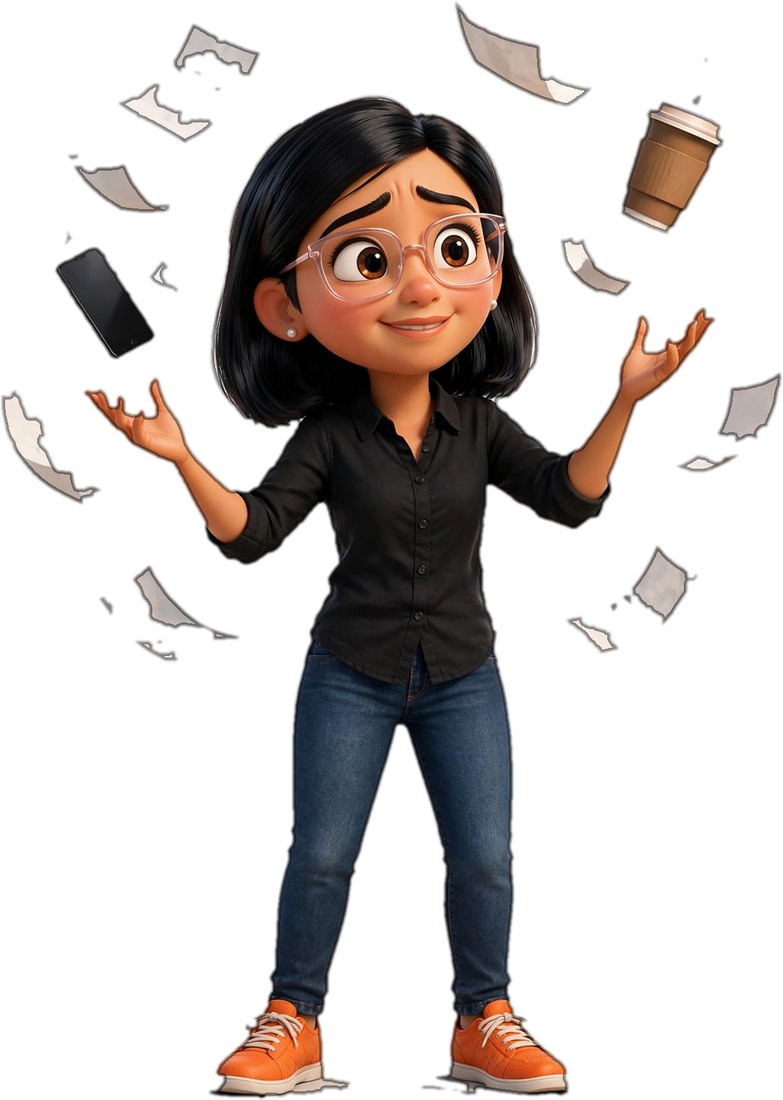
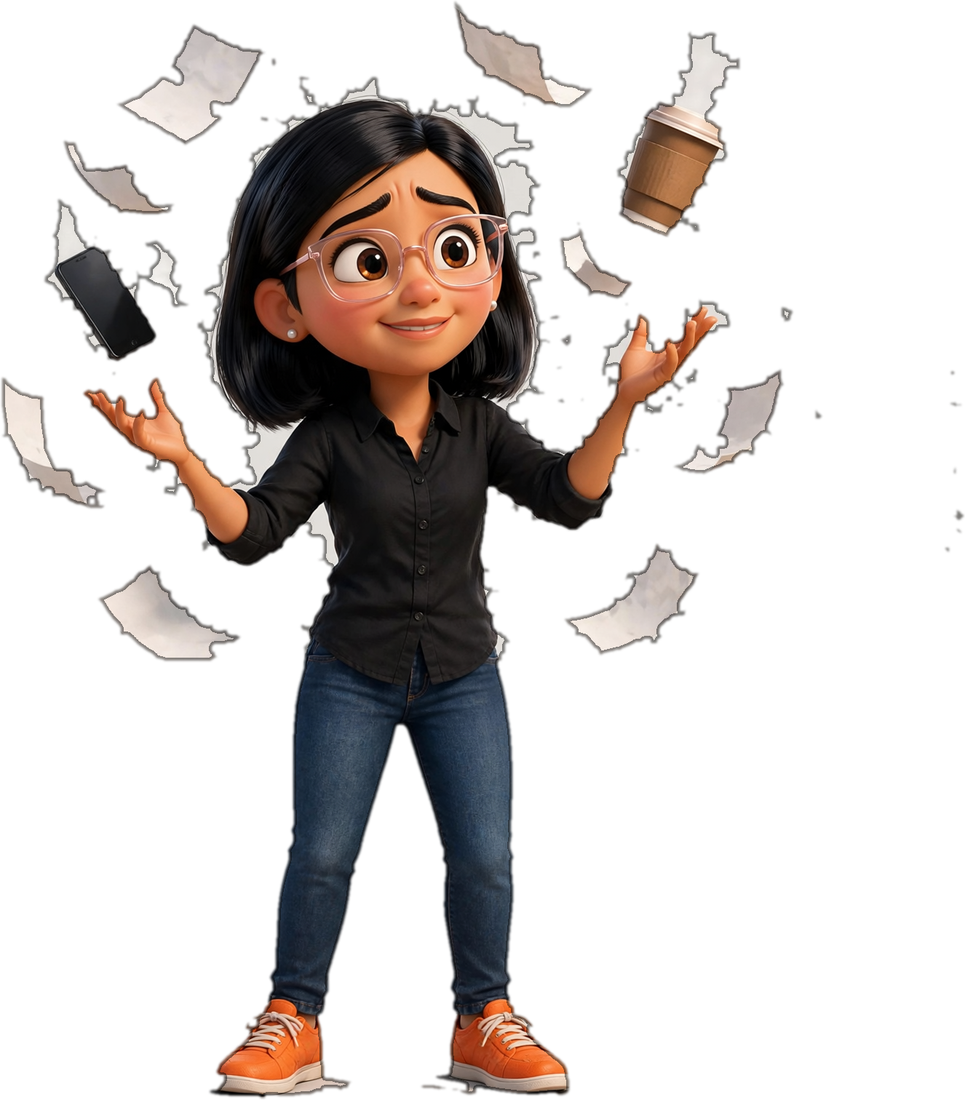
Refresh impact from capture, dismiss tour, bigger app frame, re-cut juggling pose

diff --git a/video/src/components/AppParts.tsx b/video/src/components/AppParts.tsx
@@ -25,8 +25,8 @@ export const zoomFor = (f: Focus) => Math.min(2.8, (1920 * 0.94) / f.w, (1080 * 
 /** The recorded screen, with a zoom-to-focus camera and pulsing highlight rings drawn in video space. */
 export const ScreenView: React.FC<{
   src: Src; from: number; lf: number; frames: number; focus?: Focus; callouts?: Callout[]; zoomIn?: number; rate?: number; zoom?: number; holdZoom?: boolean; playFrames?: number;
-}> = ({ src, from, lf, frames, focus, callouts = [], zoomIn = 4, rate = 1, zoom, holdZoom = false, playFrames }) => {
-  const zin = prog(lf, zoomIn, zoomIn + 24, E.inOut);
+}> = ({ src, from, lf, frames, focus, callouts = [], zoomIn = 2, rate = 1, zoom, holdZoom = false, playFrames }) => {
+  const zin = prog(lf, zoomIn, zoomIn + 16, E.inOut);
   const zout = holdZoom ? 0 : prog(lf, frames - 14, frames - 2, E.inOut);
   const k = focus ? zin * (1 - zout) : 0;
   const Z = focus ? zoom ?? zoomFor(focus) : 1;
@@ -52,7 +52,7 @@ export const ScreenView: React.FC<{
 };
 
 /** Slightly 3D-tilted browser window. Children are laid out in a 1920x1080 space scaled to fit. */
-export const TiltFrame: React.FC<{ lf: number; children: React.ReactNode; scale?: number; url?: string; enter?: number; tilt?: number; x?: number; y?: number }> = ({ lf, children, scale = 0.78, url = 'categoryos.vercel.app', enter = 0, tilt = 1, x = 960, y = 478 }) => {
+export const TiltFrame: React.FC<{ lf: number; children: React.ReactNode; scale?: number; url?: string; enter?: number; tilt?: number; x?: number; y?: number }> = ({ lf, children, scale = 0.84, url = 'categoryos.vercel.app', enter = 0, tilt = 1, x = 960, y = 500 }) => {
   const w = 1920 * scale, h = 1080 * scale, bar = 46;
   const p = pop(lf, enter, FPS, 14, 120, 0.9);
   const ry = (-5 + Math.sin(lf * 0.02) * 1.2) * tilt, rx = 2.2 * tilt;

diff --git a/video/src/scenes/Act3.tsx b/video/src/scenes/Act3.tsx
@@ -11,8 +11,9 @@ const TASKS = ['Vendor emails', 'Sheets', 'Vendor calls', 'Licence checks', 'Pri
 const GOOD = ['Strategy', 'Vendors', 'Growth'];
 const CELL_W = 214, CELL_H = 70, GAP = 6, GX = MARGIN_X + 30, GY = 232;
 
-const saved = Math.round(((IMPACT.saved_pct as number) ?? 32.7)); // modelled % of the week (from GET /api/impact)
-const SAVED_BLOCKS = Math.round((DAYS.length * ROWS * ((IMPACT.saved_pct as number) ?? 32.7)) / 100);
+const savedPct = IMPACT.saved_pct as number; // modelled % of the week, read from GET /api/impact at capture time
+const saved = Math.round(savedPct);
+const SAVED_BLOCKS = Math.round((DAYS.length * ROWS * savedPct) / 100);
 // the blocks that dissolve into green (deterministic pick)
 const order = Array.from({ length: DAYS.length * ROWS }, (_, i) => i).sort((a, b) => rnd(a * 1.3 + 4) - rnd(b * 1.3 + 4));
 const GREEN = new Set(order.slice(0, SAVED_BLOCKS));
@@ -23,7 +24,7 @@ export const WeekScene: React.FC = () => {
   const melt = sc.frames * 0.3; // melt starts here
   const hours = (IMPACT.hours_saved_per_month as number) ?? 0;
   const calm = prog(lf, melt, melt + 60, E.inOut);
-  const pct = ((IMPACT.saved_pct as number) ?? 0) * prog(lf, melt + 10, melt + 70, E.out);
+  const pct = (IMPACT.saved_pct as number) * prog(lf, melt + 10, melt + 70, E.out);
   return (
     <AbsoluteFill style={{ background: `radial-gradient(1300px 800px at 50% 35%, ${calm > 0.5 ? '#123222' : '#2a1613'} 0%, ${calm > 0.5 ? '#0c1a14' : '#140b09'} 62%)`, transition: 'none' }}>
       <AbsoluteFill style={{ background: `radial-gradient(1300px 800px at 50% 35%, #123222 0%, #0c1a14 62%)`, opacity: calm }} />

diff --git a/video/src/scenes/AppScene.tsx b/video/src/scenes/AppScene.tsx
@@ -50,7 +50,7 @@ const TagChip: React.FC<{ lf: number; text: string }> = ({ lf, text }) => {
   );
 };
 
-export const AppScene: React.FC<{ sceneId: string; segs: Seg[]; hours: [number, number]; frameScale?: number; hue?: 'blue' | 'green'; showHours?: boolean }> = ({ sceneId, segs, hours, frameScale = 0.78, hue = 'blue', showHours = true }) => {
+export const AppScene: React.FC<{ sceneId: string; segs: Seg[]; hours: [number, number]; frameScale?: number; hue?: 'blue' | 'green'; showHours?: boolean }> = ({ sceneId, segs, hours, frameScale = 0.84, hue = 'blue', showHours = true }) => {
   const sc = sceneOf(sceneId);
   const f = useCurrentFrame();
   const max = (IMPACT.hours_saved_per_month as number) ?? 0;

diff --git a/video/src/scenes/XCut.tsx b/video/src/scenes/XCut.tsx
@@ -70,7 +70,7 @@ const Montage: React.FC = () => {
 
 const WeekBack: React.FC = () => {
   const lf = useCurrentFrame();
-  const pct = ((IMPACT.saved_pct as number) ?? 0) * prog(lf, 4, 40, E.out);
+  const pct = (IMPACT.saved_pct as number) * prog(lf, 4, 40, E.out);
   return (
     <AbsoluteFill style={{ background: 'radial-gradient(900px 700px at 50% 30%, #123222 0%, #0c1a14 70%)' }}>
       <div style={{ position: 'absolute', top: 90, left: 0, right: 0, textAlign: 'center' }}>

diff --git a/video/tools/cutout.py b/video/tools/cutout.py
@@ -1,6 +1,6 @@
 """Cut a Muse Image render (character on a flat pale-grey backdrop) out to a transparent PNG.
 
-Usage: cutout.py <in.png> <out.png> [--no-floor]
+Usage: cutout.py <in.png> <out.png> [--no-floor] [--thresh=N]  (lower thresh keeps white floating papers)
 
 Method (kept reproducible on purpose):
   1. Pillow floodfill from the edges and corners, thresh=40.
@@ -18,7 +18,7 @@ from PIL import Image, ImageChops, ImageDraw, ImageFilter
 SENTINEL = (255, 0, 255)
 
 
-def cutout(src: str, dst: str, floor: bool = True) -> None:
+def cutout(src: str, dst: str, floor: bool = True, thresh: int = 40) -> None:
     im = Image.open(src).convert("RGB")
     w, h = im.size
     work = im.copy()
@@ -31,7 +31,7 @@ def cutout(src: str, dst: str, floor: bool = True) -> None:
     seeds += [(0, 0), (w - 1, 0), (0, h - 1), (w - 1, h - 1)]
     for s in seeds:
         if work.getpixel(s) != SENTINEL:
-            ImageDraw.floodfill(work, s, SENTINEL, thresh=40)
+            ImageDraw.floodfill(work, s, SENTINEL, thresh=thresh)
     px = work.load()
     ipx = im.load()
     mask = Image.new("L", (w, h), 255)
@@ -72,4 +72,5 @@ def cutout(src: str, dst: str, floor: bool = True) -> None:
 
 if __name__ == "__main__":
     args = [a for a in sys.argv[1:] if not a.startswith("--")]
-    cutout(args[0], args[1], floor="--no-floor" not in sys.argv)
+    th = next((int(a.split("=")[1]) for a in sys.argv if a.startswith("--thresh=")), 40)
+    cutout(args[0], args[1], floor="--no-floor" not in sys.argv, thresh=th)
